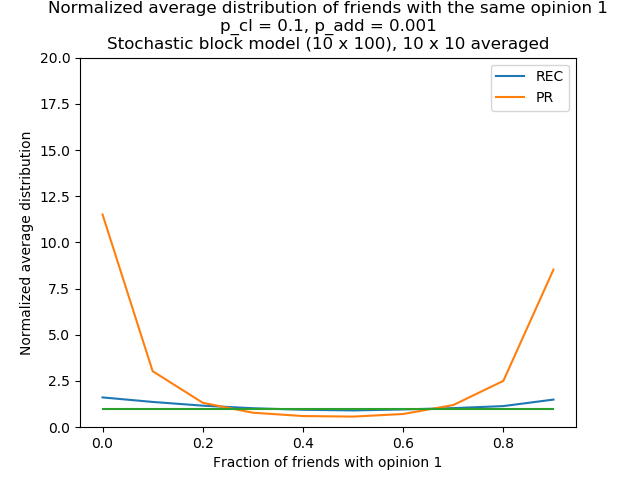
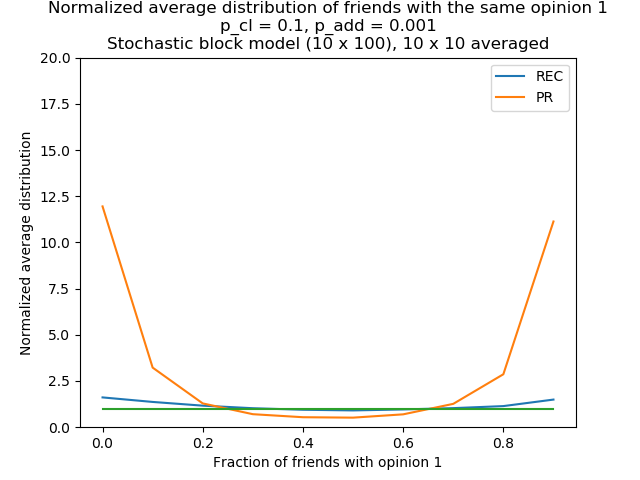
changed some things in python code plot_opinion_fractions + did some more testing on echo chambers in SBM

diff --git a/plot_opinion_fractions.py b/plot_opinion_fractions.py
@@ -1,8 +1,8 @@
 import numpy as np
 import matplotlib.pyplot as plt
 
-fractions_av0 = np.loadtxt('Fraction_of_opinions_Clustered_Cluster4_05-0001_50_50_no_stubb_paper8_active_01_av_good_init.txt')
-#fractions_av3 = np.loadtxt('Fraction_of_opinions_Clustered_cluster6_01-001_50_50_no_stubb_paper8_active_01_av_good_init.txt')
+fractions_REC = np.loadtxt('Fraction_of_opinions_Clustered_Cluster3_001-001_50_50_no_stubb_paper8_active_01_av_good_init_REC.txt')
+fractions_PR = np.loadtxt('Fraction_of_opinions_Clustered_Cluster3_001-001_50_50_no_stubb_paper8_active_01_av_good_init_PR.txt')
 #fractions_50_av = np.loadtxt('Fraction_of_opinions_1_20_80_50_stubb_50_bern_050_av.txt')
 #fractions_25_av = np.loadtxt('Fraction_of_opinions_1_20_80_50_stubb_25_bern_050_av.txt')
 #fractions_1_av = np.loadtxt('Fraction_of_opinions_1_70_30_all_stubb_100_bern_5_av.txt')
@@ -34,28 +34,28 @@ plt.savefig('Standard_Deviation_Clustered_01-001_50_50_no_stubb_one_node_active_
 plt.show()"""
 
 fig, axes = plt.subplots(nrows=1, ncols=2, figsize=(10, 4))
-st = fig.suptitle("Stochastic block model, 10 x 10 averaged")
-axes[0].plot(t, y)
+st = fig.suptitle("Stochastic block model (10 x 100), 10 x 10 averaged")
+#axes[0].plot(t, y)
 #axes[0].plot(t[::10], fractions_av0[:,0][::10], label='Opinion 0')
-axes[0].plot(t[::10], fractions_av0[:,1][::10], label='Opinion 1')
+axes[0].plot(t[::10], fractions_REC[:,1][::10], label='Opinion 1, REC')
 axes[0].legend(loc='best')
 axes[0].set_xlabel("Timesteps t")
-axes[0].set_ylabel("Opinion fraction")
-#axes[0].set_ylim(0.45, 0.55)
-axes[0].title.set_text("Opinion fraction vs time, 50/50\n" r"$p_{cl}$ = 0.5, $p_{add}$ = 0.001")
+axes[0].set_ylabel("Opinion fraction inside a community, REC")
+axes[0].set_ylim(0.45, 0.55)
+axes[0].title.set_text("Opinion fraction inside a community vs time, REC, 50/50\n"r"$p_{cl}$ = 0.01, $p_{add}$ = 0.01")
 
-axes[1].plot(t[::10], fractions_av0[:,2][::10], label='Standard deviation')
+axes[1].plot(t[::10], fractions_PR[:,1][::10], label='Opinion 1, PR')
 #axes[1].plot(t[::10], fractions_av3[:,1][::10], label='Standard deviation')
 #axes[1].plot(t, y)
 axes[1].legend(loc='best')
 axes[1].set_xlabel("Timesteps t")
-axes[1].set_ylabel("Standard deviation")
-#axes[1].set_ylim(0.35, 0.55)
-axes[1].title.set_text(r"Standard deviation for each timestep")
+axes[1].set_ylabel("Opinion fraction inside a community, PR")
+axes[1].set_ylim(0.45, 0.55)
+axes[1].title.set_text("Opinion fraction inside a community vs time, PR, 50/50\n"r"$p_{cl}$ = 0.01, $p_{add}$ = 0.01")
 # shift subplots down:
 st.set_y(0.03)
 fig.subplots_adjust(bottom=0.1)
 
 fig.tight_layout()
-fig.savefig('Fraction_of_opinions_Clustered_Cluster4_05-0001_50_50_no_stubb_paper8_active_01_av_good_init.png')
+fig.savefig('Fraction_of_opinions_Clustered_Cluster3_001-001_50_50_no_stubb_paper8_active_01_av_good_init_REC_PR.png')
 plt.show()

diff --git a/main.cpp b/main.cpp
@@ -15,7 +15,6 @@
 #include <list>
 using namespace std;
 
-// look at static functions to make graph.utils that has makeER function 
 
 int main(){
     // looks ok, but needs further testing
@@ -30,11 +29,11 @@ int main(){
     double p_bern = 0.1;
 
     double p_add = 0.001;
-    vector<int> clusterSizes(10); // length of this vector determines the number of cluster and the elements determine the size of each cluster
-    vector<double> edgeProbs(10);
-    for (int i = 0; i < 10; i++){
-        clusterSizes[i] = 100;
-        edgeProbs[i] = 0.01;
+    vector<int> clusterSizes(20); // length of this vector determines the number of cluster and the elements determine the size of each cluster
+    vector<double> edgeProbs(20);
+    for (int i = 0; i < 20; i++){
+        clusterSizes[i] = 50;
+        edgeProbs[i] = 0.1;
     }
 
     vector<double> fractionAt0(N);
@@ -147,7 +146,7 @@ int main(){
         }
     }*/
 
-    ofstream normfile("Hist_500_and_0_fraction_friends_opinion1_SBM_01-001_PR.txt");
+    ofstream normfile("Hist_500_and_0_fraction_friends_opinion1_SBM_1-001_REC.txt");
     for (int i = 0; i < neighOp1HistAt500.size(); i++){
         double norm = double(neighOp1HistAt500[i]) / double(neighOp1HistAt0[i]);
         normfile << neighOp1HistAt500[i] << ' ' << neighOp1HistAt0[i] << ' ' << norm << endl;
@@ -308,7 +307,7 @@ int main(){
     }*/
 
     // also calculate standard deviation here?
-    /*ofstream opfile("Fraction_of_opinions_Clustered_Cluster4_05-0001_50_50_no_stubb_paper8_active_01_av_good_init.txt");
+  /*  ofstream opfile("Fraction_of_opinions_Clustered_Cluster3_01-0001_50_50_no_stubb_paper8_active_01_av_good_init_REC.txt");
     vector<double> mean0(500); // contains the average fraction of opinion 0 in the graph at each timestep
     vector<double> mean1(500); // contains the average fraction of opinion 1 in the graph at each timestep
     vector<double> variance0(500); // calculate variance of opinion 0 according to Welford's algorithm
@@ -328,8 +327,8 @@ int main(){
                 g.setNodesActive(p_bern);
                 g.changeOpinions();
 
-                double x0 = g.countOpinionFractionCluster(4)[0];
-                double x1 = g.countOpinionFractionCluster(4)[1];
+                double x0 = g.countOpinionFractionCluster(3)[0];
+                double x1 = g.countOpinionFractionCluster(3)[1];
 
                 double oldMean0 = mean0[t];
                 double oldMean1 = mean1[t];

diff --git a/distr_friends_opinion1.py b/distr_friends_opinion1.py
@@ -25,6 +25,6 @@ plt.ylim(0, 20)
 
 plt.legend(loc='best')
 
-plt.title('Normalized average distribution of friends with the same opinion 1\np_cl = 0.1, p_add = 0.001\nStochastic block model (10 x 100), 10 x 10 averaged')
-plt.savefig('Normalized_hist_fraction_friends_opinion1_SBM_1-001_REC_PR.png')
+plt.title('Normalized average distribution of friends with the same opinion 1\np_cl = 0.1, p_add = 0.001\nStochastic block model (20 x 50), 10 x 10 averaged')
+plt.savefig('Normalized_hist_fraction_friends_opinion1_SBM_1-001_20x50_REC_PR.png')
 plt.show()

diff --git a/Node.cpp b/Node.cpp
@@ -111,7 +111,7 @@ void Node::changeOpinion(){
     // change the opinion of the active node according to the majority model and if the random number is bigger than the resistance of the node
     if (_active){
         // first: order the hidden list neighOpinion according to some rule and only look at first 20 opinions
-        orderOpinionsPR();
+        orderOpinionsREC();
 
         // count the number of opinion 0 and 1 of the first 20 opinions in the ordered list
         if (_neighOpinion.size() != 0){
